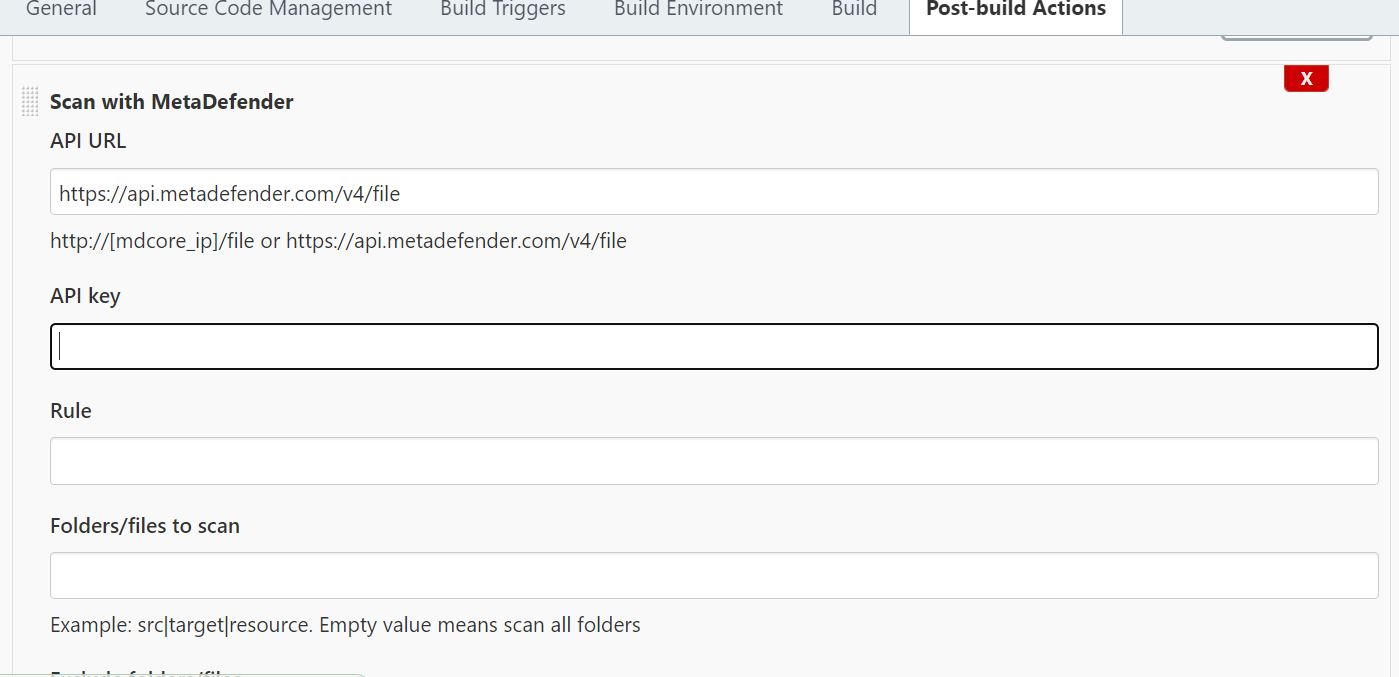
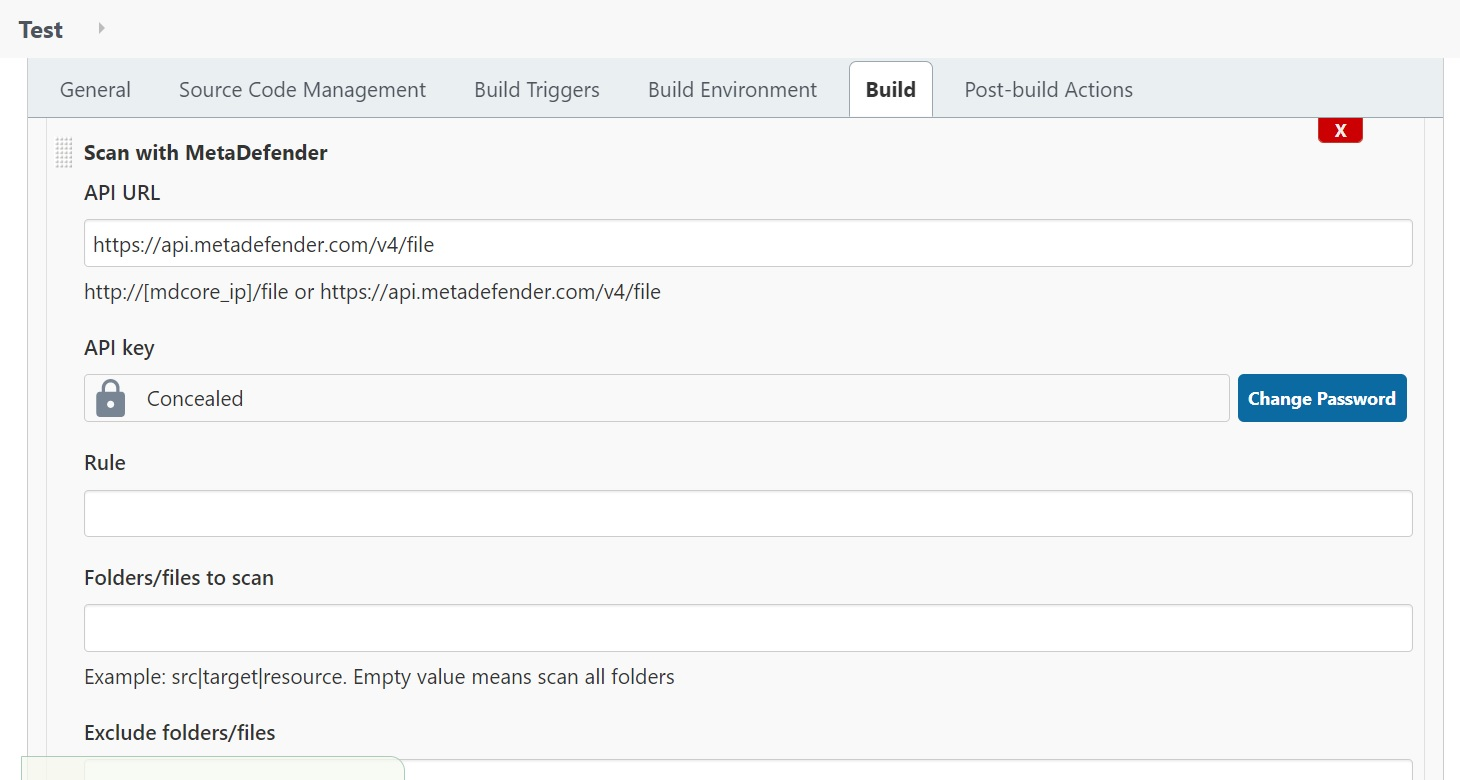
update apikey to use secret update pipeline in README.md to use withCredentials

diff --git a/src/main/java/com/opswat/jenkins/plugins/metadefender/ScanBuilder.java b/src/main/java/com/opswat/jenkins/plugins/metadefender/ScanBuilder.java
@@ -7,6 +7,7 @@ import hudson.model.TaskListener;
 import hudson.tasks.BuildStepDescriptor;
 import hudson.tasks.Builder;
 import hudson.util.FormValidation;
+import hudson.util.Secret;
 import jenkins.tasks.SimpleBuildStep;
 import org.jenkinsci.Symbol;
 import org.kohsuke.stapler.DataBoundConstructor;
@@ -22,7 +23,7 @@ import java.util.concurrent.*;
 public class ScanBuilder extends Builder implements SimpleBuildStep {
 
     private final String scanURL;
-    private final String apiKey;
+    private final Secret apiKey;
     private final String source;
     private final String exclude;
     private final String rule;
@@ -35,7 +36,7 @@ public class ScanBuilder extends Builder implements SimpleBuildStep {
         return scanURL;
     }
 
-    public String getApiKey() {
+    public Secret getApiKey() {
         return apiKey;
     }
 
@@ -64,7 +65,7 @@ public class ScanBuilder extends Builder implements SimpleBuildStep {
     }
 
     @DataBoundConstructor
-    public ScanBuilder(String scanURL, String apiKey, String source, String exclude, String rule,
+    public ScanBuilder(String scanURL, Secret apiKey, String source, String exclude, String rule,
                        int timeout, boolean isAbortBuild, boolean isPrivateScan, boolean isShowBlockedOnly) {
         this.scanURL = scanURL;
         this.apiKey = apiKey;
@@ -93,7 +94,7 @@ public class ScanBuilder extends Builder implements SimpleBuildStep {
         //Start a scanner with 10 threads and scan
         Scanner scanner = new Scanner(10);
         boolean foundBlockedResult = scanner.Start(filesToScan,workspace + "",
-                scanURL, apiKey, rule, timeout, isPrivateScan, isShowBlockedOnly, listener);
+                scanURL, apiKey.getPlainText(), rule, timeout, isPrivateScan, isShowBlockedOnly, listener);
 
         //Mark the build Aborted if needed
         if (foundBlockedResult && isAbortBuild) {
@@ -104,7 +105,6 @@ public class ScanBuilder extends Builder implements SimpleBuildStep {
     @Symbol("greet")
     @Extension
     public static final class DescriptorImpl extends BuildStepDescriptor<Builder> {
-
         public FormValidation doCheckScanURL(@QueryParameter String value)
                 throws IOException, ServletException {
 

diff --git a/src/main/java/com/opswat/jenkins/plugins/metadefender/ScanPostBuild.java b/src/main/java/com/opswat/jenkins/plugins/metadefender/ScanPostBuild.java
@@ -4,7 +4,7 @@ import hudson.*;
 import hudson.model.*;
 import hudson.tasks.*;
 import hudson.util.FormValidation;
-import jenkins.tasks.SimpleBuildStep;
+import hudson.util.Secret;
 import org.jenkinsci.Symbol;
 import org.kohsuke.stapler.DataBoundConstructor;
 import org.kohsuke.stapler.QueryParameter;
@@ -13,13 +13,11 @@ import javax.servlet.ServletException;
 import java.io.File;
 import java.io.IOException;
 import java.util.ArrayList;
-import java.util.List;
-import java.util.concurrent.*;
 
 public class ScanPostBuild extends Recorder {
 
     private final String scanURL;
-    private final String apiKey;
+    private final Secret apiKey;
     private final String source;
     private final String exclude;
     private final String rule;
@@ -32,7 +30,7 @@ public class ScanPostBuild extends Recorder {
         return scanURL;
     }
 
-    public String getApiKey() {
+    public Secret getApiKey() {
         return apiKey;
     }
 
@@ -61,7 +59,7 @@ public class ScanPostBuild extends Recorder {
     }
 
     @DataBoundConstructor
-    public ScanPostBuild(String scanURL, String apiKey, String source, String exclude,
+    public ScanPostBuild(String scanURL, Secret apiKey, String source, String exclude,
                          String rule, int timeout, boolean isPrivateScan, boolean isAbortBuild, boolean isShowBlockedOnly) {
         this.scanURL = scanURL;
         this.apiKey = apiKey;
@@ -89,8 +87,8 @@ public class ScanPostBuild extends Recorder {
 
         //Start a scanner with 10 threads and scan
         Scanner scanner = new Scanner(10);
-        boolean foundBlockedResult = scanner.Start(filesToScan,build.getWorkspace() + "", scanURL, apiKey,
-                rule, timeout, isPrivateScan, isShowBlockedOnly, listener);
+        boolean foundBlockedResult = scanner.Start(filesToScan,build.getWorkspace() + "", scanURL,
+                apiKey.getPlainText(), rule, timeout, isPrivateScan, isShowBlockedOnly, listener);
 
         //Mark the build Aborted if needed
         if (foundBlockedResult && isAbortBuild) {

diff --git a/README.md b/README.md
@@ -18,7 +18,7 @@ mvn package
 - Trigger the build
 - When the build is done, check the Console Output, it should show the scan results
 ![scan result](docs/images/scan_result.JPG)
-- For pipeline, you can use this sample to generate an Eicar file and scan, the build should be failed at "scan" stage because of a threat found
+- For pipeline, you can use this sample to generate an Eicar file and scan, the build should be failed at "scan" stage because of a threat found. Note: the script uses a static function, hudson.util.Secret.fromString, to convert string to secret so either you have to approve the function or uncheck Use Groovy Sandbox
 ```sh
 pipeline {
     agent any
@@ -27,15 +27,18 @@ pipeline {
             steps {
                 bat 'echo X5O!P%%@AP[4\\PZX54(P^^)7CC)7}$EICAR-STANDARD-ANTIVIRUS-TEST-FILE!$H+H* > file_to_scan.txt'
             }
-            
         }
         stage('scan') {
             steps {
-                step([$class: 'ScanBuilder', scanURL: 'http://metadefender_ip/file', apiKey: '', rule: '', 
-                     source: '', exclude: '', timeout: 600, isPrivateScan: false, isShowBlockedOnly: false, 
-                     isAbortBuild: true])
-             }
-        }
+                script {
+                    withCredentials([string(credentialsId: 'MD_APIKEY', variable: 'md_apikey')]){
+							step([$class: 'ScanBuilder', scanURL: 'https://api.metadefender.com/v4/file', apiKey: hudson.util.Secret.fromString(md_apikey), rule: '', 
+							 source: '', exclude: '', timeout: 600, isPrivateScan: false, isShowBlockedOnly: false, 
+							 isAbortBuild: true])             
+					}
+				}
+			}
+		}		
     }
 }
 ```
